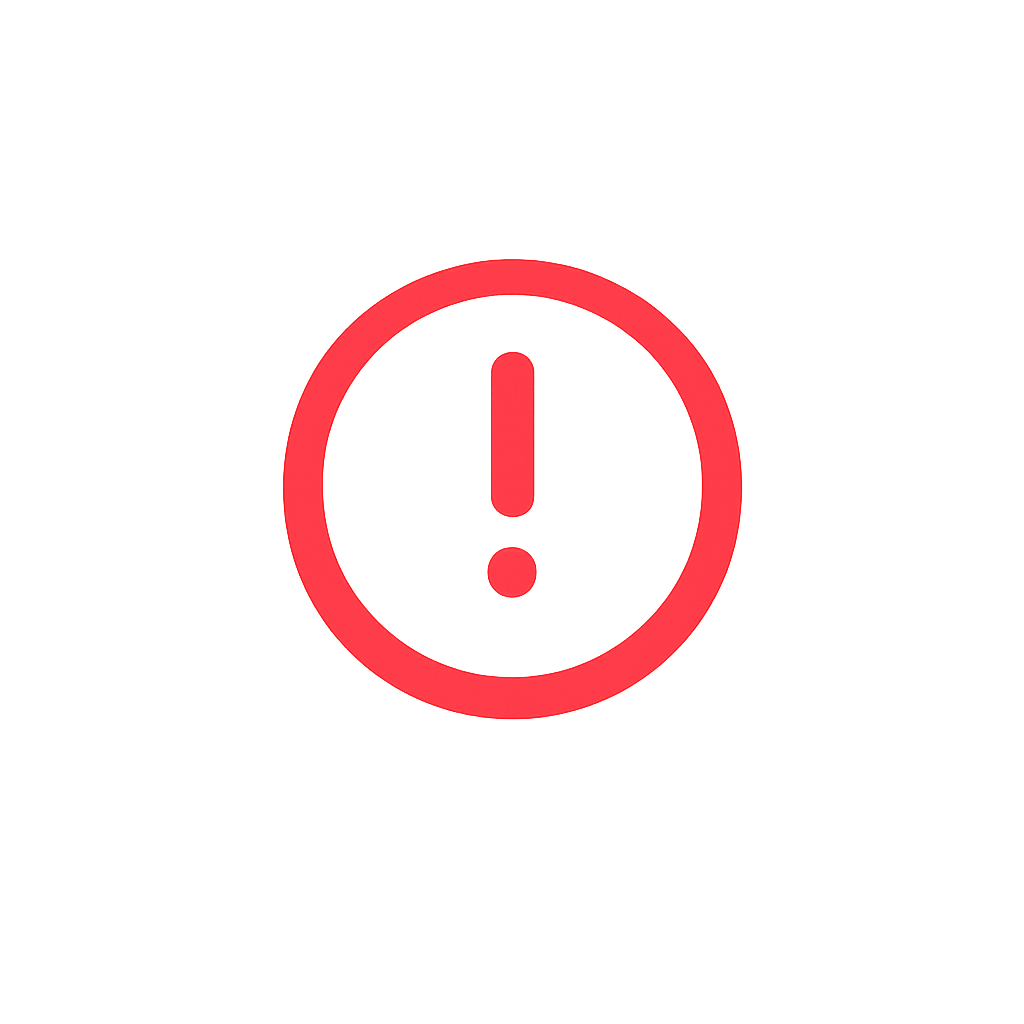
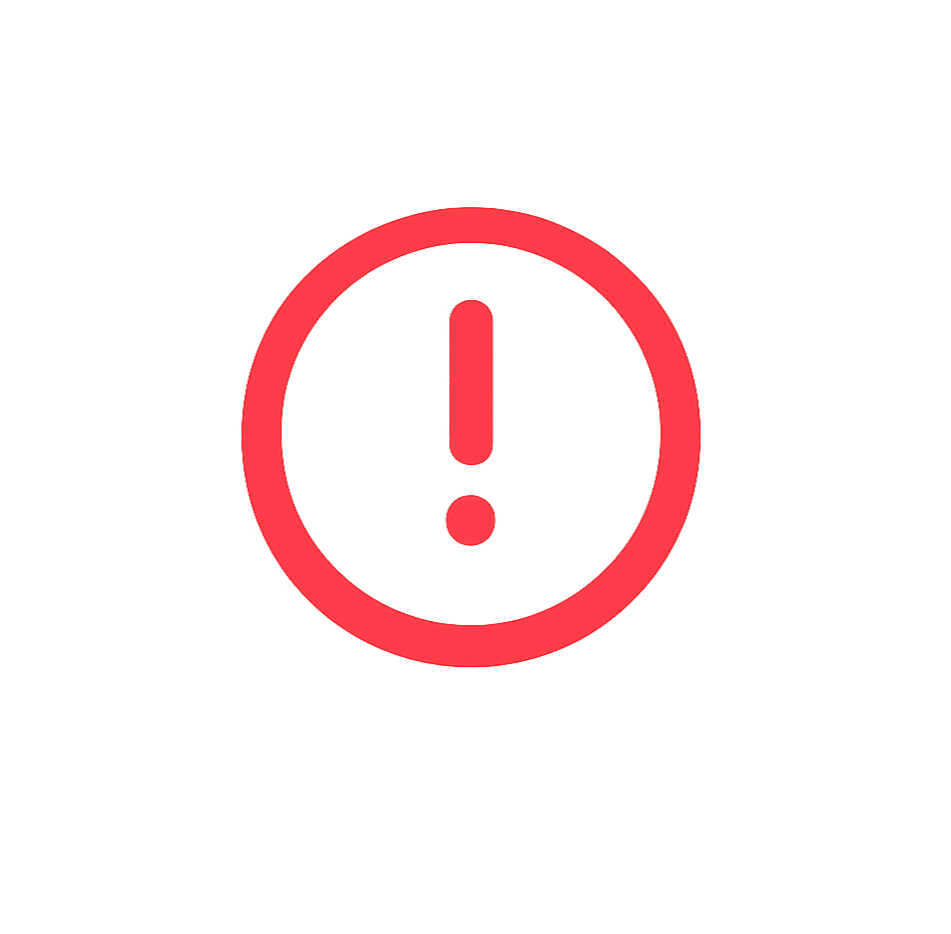
fix/Adjusted rectangle design and resized images

Changed region(s): [[0.244, 0.2173, 0.7624, 0.7141], [0.6099, 0.5589, 0.7014, 0.6831]]

diff --git a/client/src/components/Widget.tsx b/client/src/components/Widget.tsx
@@ -6,25 +6,30 @@ interface PropsDoRetangulo {
   titulo: string;
   valor: number;
   icone: string;
+  corFundo: string; //nova variavel para definir a cor do quadrado atras do icone
 } //a categoria de cada variavel
 
 function Retangulo(props: PropsDoRetangulo) {
   return (
-    //cor da borda do retangulo = cinza
-    //p = espacos entre as bordas e o texto
-    //tamanho minimo de 250px com o min-w
-    //items-center para colocar no centro do retangulo
-    //gap = espaco entre os elementos de dentro do
-    <div className="border-4 border-gray-200 p-5 min-w-[350px] flex items-center  gap-4 rounded-lg">
-      <img src={props.icone} alt={props.titulo} className="w-12 h-12" />
+    //shadow-xl = sombra maior e mais espalhada
+    //border-[3px] border-gray-200 = borda de 3 pixels na cor cinza clara
+    //p-5 = espacos entre as bordas e o conteudo interno
+    //min-w-[600px] e min-h-[150px] = tamanho minimo de largura e altura do retangulo
+    //flex e items-center = alinha os elementos no centro na horizontal
+    //gap-4 = espaco entre o bloco do icone e os textos
+    <div className="bg-white shadow-xl border-[3px] border-gray-200 p-5 min-w-[600px] min-h-[150px] flex items-center gap-4 rounded-xl">
+      {/*div que cria o fundo colorido atras da imagem*/}
+      {/*rounded-2xl deixa os cantos bem arredondados e p-4 da o espaco interno*/}
+      <div
+        className={`${props.corFundo} p-2 rounded-2xl flex items-center justify-center`}
+      >
+        {/*tamanho da imagem ajustado para w-12 e h-12 para caber no fundo*/}
+        <img src={props.icone} alt={props.titulo} className="w-18 h-16" />
+      </div>
+
       <div>
-        <p className="text-zinc-400 mb-1 text-sm">
-          {props.titulo} {/*cor ciza diferente da borda */}
-        </p>
+        <p className="text-zinc-400 mb-1 text-2xl">{props.titulo}</p>
         <p className="text-2xl font-bold">{props.valor}</p>
-        {/*text-2xl = tamanho do texto 
-        font-bold = negrito
-        */}
       </div>
     </div>
   );
@@ -38,27 +43,32 @@ function Widget() {
 
   return (
     <div>
-      <div className="ml-[20%] mb-8">
-        <h2 className="text-3xl font-bold">Dashboard</h2>
-        <h3 className="text-zinc-400">Visão geral da biblioteca</h3>
+      <div className="mb-8">
+        <h2 className="text-4xl font-bold">Dashboard</h2>
+        <h3 className="text-zinc-400 text-2xl">Visão geral da biblioteca</h3>
       </div>
-      <div className="flex justify-center gap-10">
-        {/*flex para os retangulops ficarem alinhados, gap o espaco entre elas\*/}
-        {/*chamando as funcoes tres vezes, cada uma com parametros diferentes */}
+
+      {/*flex para os retangulos ficarem alinhados lado a lado*/}
+      {/*justify-center para centralizar na tela e gap-7 para o espaco entre eles*/}
+      <div className="flex justify-center gap-7">
+        {/*chamando as funcoes tres vezes, passando as cores de fundo verde ou vermelho*/}
         <Retangulo
           titulo="Total de Livros"
           valor={totalLivros}
           icone="/img/total_livros.png"
+          corFundo="bg-emerald-100"
         />
         <Retangulo
           titulo="Empréstimos Ativos"
           valor={emprestimosAtivos}
           icone="/img/reservados.png"
+          corFundo="bg-emerald-100"
         />
         <Retangulo
           titulo="Livros Atrasados"
           valor={livrosAtrasados}
           icone="/img/expirados.png"
+          corFundo="bg-red-100"
         />
       </div>
     </div>
